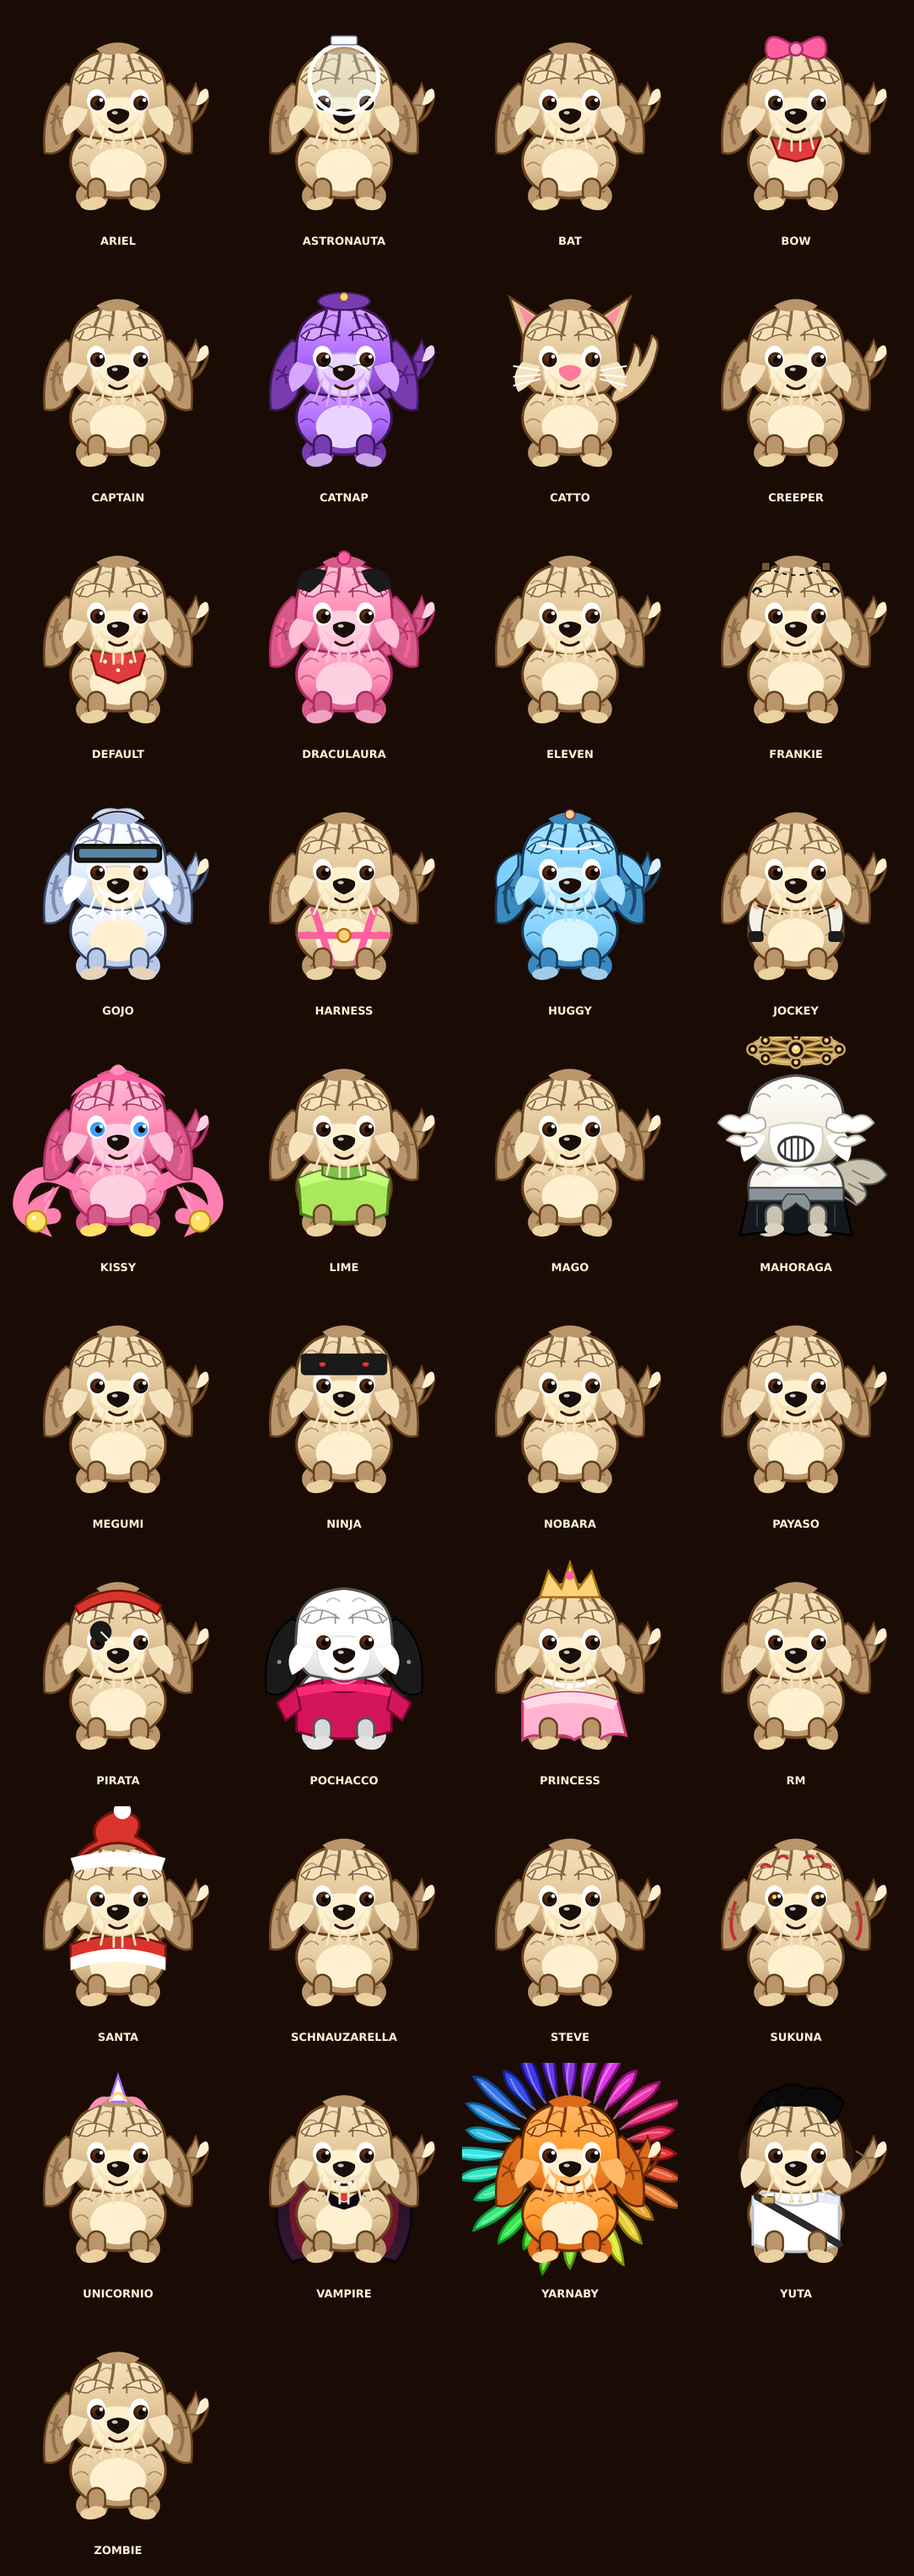
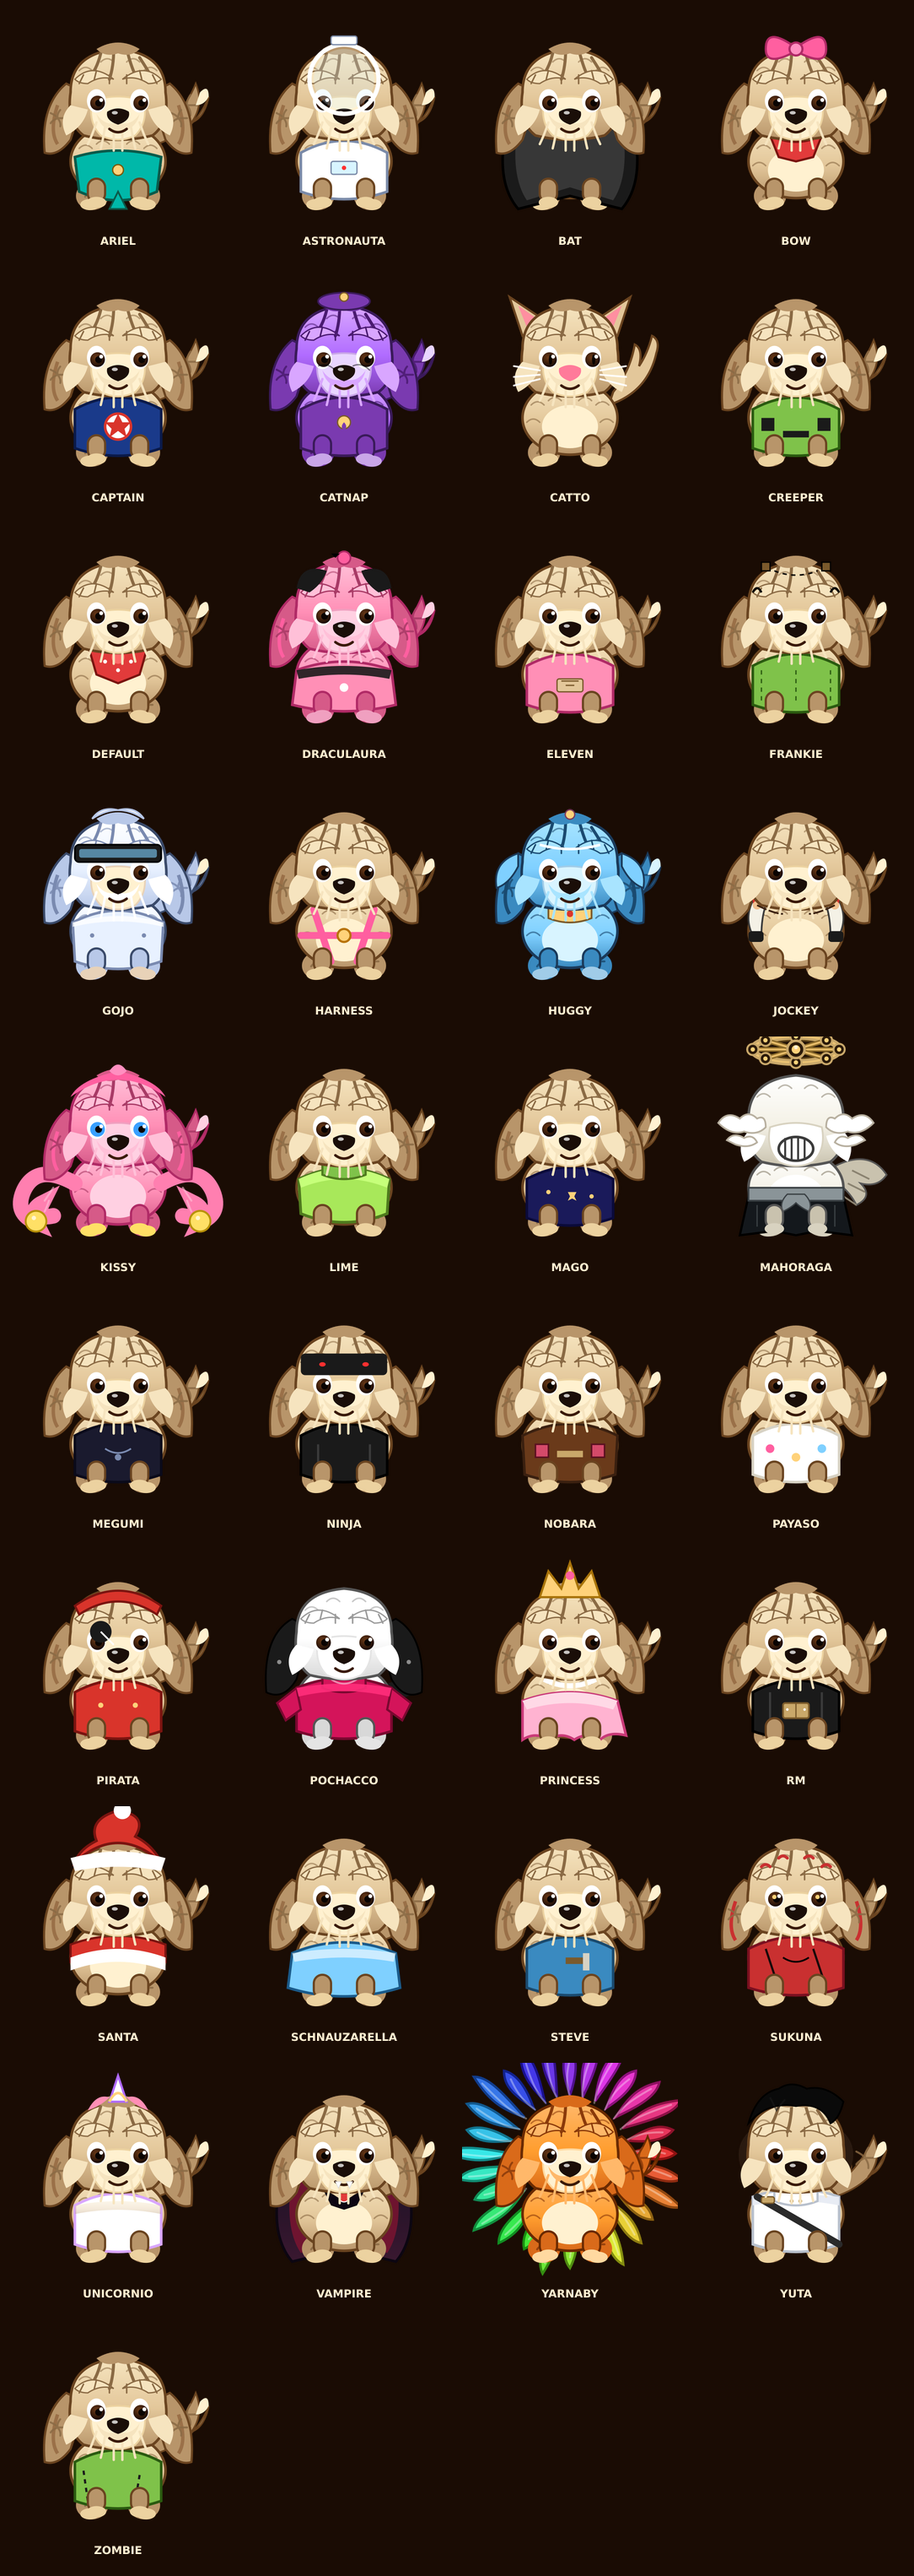
fix(skins): RM disfraz completo + comparativas aprobación 37/37 (restaurado)
- RM libro dorado añadido, 37/37 aprobadas con disfraces completos
- Docs COMPARATIVAS con fotos referencia web y IA ideal 10/10 aprobados

diff --git a/src/art/Maxine.tsx b/src/art/Maxine.tsx
@@ -144,6 +144,53 @@ export default function Maxine({ skin = "default", pose = "idle", facing = 1, si
         </g>}
         {/* COSTUME: mahoraga hakama + sash */}
         {skin === "mahoraga" && <g><path d="M28 74 L24 92 L40 90 L50 92 L60 90 L76 92 L72 74 Z" fill="#14181c" stroke="#000" strokeWidth="1" /><rect x="28" y="70" width="44" height="6" fill="#8a9498" stroke="#3a4044" strokeWidth="0.8" /><path d="M46 73 q-4 4 -2 8 q4 -2 6 -4 q2 2 6 4 q2 -4 -2 -8 Z" fill="#8a9498" stroke="#3a4044" strokeWidth="0.6" /><path d="M32 78 l0 10 M42 78 l0 12 M58 78 l0 12 M68 78 l0 10" stroke="#3a4044" strokeWidth="0.6" /></g>}
+        {/* COSTUME: gojo — silver uniform */}
+        {skin === "gojo" && <g><path d="M29 66 Q50 55 71 66 L70 84 Q50 91 30 84 Z" fill="#e8f1ff" stroke="#7a8ab0" strokeWidth="1.2"/><path d="M29 66 Q50 60 71 66 L71 68 Q50 63 29 68 Z" fill="#ffffff" opacity="0.8"/><circle cx="38" cy="72" r="1" fill="#7a8ab0"/><circle cx="62" cy="72" r="1" fill="#7a8ab0"/></g>}
+        {/* COSTUME: nobara — brown coat red buttons hammer */}
+        {skin === "nobara" && <g><path d="M28 66 Q50 55 72 66 L71 84 Q50 91 29 84 Z" fill="#6a3a1a" stroke="#3a2010" strokeWidth="1.2"/><path d="M34 70 h6 v6 h-6 Z" fill="#d44a6a" stroke="#5a1020" strokeWidth="0.7"/><path d="M60 70 h6 v6 h-6 Z" fill="#d44a6a" stroke="#5a1020" strokeWidth="0.7"/><rect x="44" y="73" width="12" height="3" fill="#c9a86a"/></g>}
+        {/* COSTUME: megumi — black uniform with dog shadow */}
+        {skin === "megumi" && <g><path d="M30 66 Q50 55 70 66 L70 84 Q50 91 30 84 Z" fill="#1a1a2e" stroke="#0a0a1a" strokeWidth="1.2"/><path d="M44 72 Q50 76 56 72" stroke="#7a8ab0" strokeWidth="0.8" fill="none"/><circle cx="50" cy="76" r="1.5" fill="#7a8ab0"/></g>}
+        {/* COSTUME: sukuna — kimono open with tattoos */}
+        {skin === "sukuna" && <g><path d="M28 66 Q50 55 72 66 L72 84 Q50 91 28 84 Z" fill="#c93030" stroke="#7a1020" strokeWidth="1.2"/><path d="M36 66 L42 84 M58 66 L64 84" stroke="#1a0a0a" strokeWidth="1"/><path d="M44 70 Q50 74 56 70" stroke="#000" strokeWidth="0.8" fill="none"/></g>}
+        {/* COSTUME: draculaura — pink victorian dress */}
+        {skin === "draculaura" && <g><path d="M28 68 Q50 60 72 68 L74 84 Q50 90 26 84 Z" fill="#ff8fb6" stroke="#b02a66" strokeWidth="1.2"/><path d="M28 68 Q50 64 72 68 L71 72 Q50 68 29 72 Z" fill="#1a1a1a" opacity="0.9"/><circle cx="50" cy="76" r="2" fill="#fff"/></g>}
+        {/* COSTUME: frankie — stitched green jacket */}
+        {skin === "frankie" && <g><path d="M30 66 Q50 55 70 66 L70 84 Q50 91 30 84 Z" fill="#7fc24a" stroke="#2a5a10" strokeWidth="1.2"/><path d="M34 68 L34 84 M50 68 L50 84 M66 68 L66 84" stroke="#2a5a10" strokeWidth="0.6" strokeDasharray="2 2"/></g>}
+        {/* COSTUME: schnauzarella — blue ball gown */}
+        {skin === "schnauzarella" && <g><path d="M26 68 Q50 58 74 68 L76 84 Q50 92 24 84 Z" fill="#7fd0ff" stroke="#1a5a8a" strokeWidth="1.2"/><path d="M26 68 Q50 64 74 68 L73 72 Q50 68 27 72 Z" fill="#fff" opacity="0.6"/></g>}
+        {/* COSTUME: ariel — mermaid tail */}
+        {skin === "ariel" && <g><path d="M30 68 Q50 62 70 68 L68 84 Q50 92 32 84 Z" fill="#00b8a9" stroke="#0a5a4a" strokeWidth="1.2"/><path d="M50 84 L46 92 L54 92 Z" fill="#00b8a9" stroke="#0a5a4a" strokeWidth="0.8"/><circle cx="50" cy="74" r="2.5" fill="#ffd27a" stroke="#7a5a0a" strokeWidth="0.6"/></g>}
+        {/* COSTUME: captain — star shield */}
+        {skin === "captain" && <g><path d="M30 66 Q50 55 70 66 L70 84 Q50 91 30 84 Z" fill="#1a3a8a" stroke="#0a1a4a" strokeWidth="1.2"/><circle cx="50" cy="74" r="6" fill="#fff" stroke="#d9342b" strokeWidth="1.2"/><path d="M50 68 l2 4 l4 0 l-3 3 l1 4 l-4 -3 l-4 3 l1 -4 l-3 -3 l4 0 Z" fill="#d9342b"/></g>}
+        {/* COSTUME: bat — black cape */}
+        {skin === "bat" && <g><path d="M22 48 Q14 78 26 92 L50 86 L74 92 Q86 78 78 48 Q66 56 50 56 Q34 56 22 48 Z" fill="#1a1a1a" stroke="#000" strokeWidth="1.2"/><path d="M26 52 Q22 76 30 88 L50 82 L70 88 Q78 76 74 52 Q64 60 50 60 Q36 60 26 52 Z" fill="#3a3a3a" opacity="0.9"/></g>}
+        {/* COSTUME: huggy — already blue fur via palette, add bow tie */}
+        {skin === "huggy" && <g><path d="M40 58 Q50 62 60 58 L60 64 Q50 68 40 64 Z" fill="#ffd27a" stroke="#7a5a2a" strokeWidth="0.8"/><circle cx="50" cy="62" r="1.5" fill="#d9342b"/></g>}
+        {/* COSTUME: catnap — purple collar moon */}
+        {skin === "catnap" && <g><path d="M30 66 Q50 55 70 66 L70 84 Q50 91 30 84 Z" fill="#7a3ab0" stroke="#3a1a5a" strokeWidth="1.2"/><circle cx="50" cy="72" r="3" fill="#ffd27a" stroke="#7a5a2a" strokeWidth="0.6"/><path d="M50 72 Q52 74 50 76 Q48 74 50 72" fill="#7a3ab0"/></g>}
+        {/* COSTUME: eleven — pink dress + waffle */}
+        {skin === "eleven" && <g><path d="M30 66 Q50 55 70 66 L70 84 Q50 91 30 84 Z" fill="#ff8fb6" stroke="#b02a66" strokeWidth="1.2"/><rect x="44" y="72" width="12" height="6" rx="1" fill="#e3c79a" stroke="#7a5a2c" strokeWidth="0.6"/><path d="M46 73 h8 M48 75 h4" stroke="#7a5a2c" strokeWidth="0.6"/></g>}
+        {/* COSTUME: rm — leather jacket */}
+        {skin === "rm" && <g><path d="M30 66 Q50 55 70 66 L70 84 Q50 91 30 84 Z" fill="#1a1a1a" stroke="#000" strokeWidth="1.2"/><path d="M38 66 L38 84 M62 66 L62 84" stroke="#3a3a3a" strokeWidth="1"/><rect x="44" y="71" width="12" height="7" rx="1" fill="#c9a86a" stroke="#7a5a2a" strokeWidth="0.8"/><path d="M50 71 v7" stroke="#7a5a2c" strokeWidth="0.6"/><circle cx="46" cy="74" r="0.6" fill="#fff"/><circle cx="54" cy="74" r="0.6" fill="#fff"/></g>}
+        {/* COSTUME: steve — blue shirt pickaxe */}
+        {skin === "steve" && <g><path d="M30 66 Q50 55 70 66 L70 84 Q50 91 30 84 Z" fill="#3a8ac0" stroke="#1a4a6e" strokeWidth="1.2"/><rect x="48" y="70" width="10" height="3" fill="#7a5a2c"/><rect x="56" y="68" width="3" height="8" fill="#d7d2c4"/></g>}
+        {/* COSTUME: creeper — pixel green */}
+        {skin === "creeper" && <g><path d="M30 66 Q50 55 70 66 L70 84 Q50 91 30 84 Z" fill="#7fc24a" stroke="#2a5a10" strokeWidth="1.2"/><rect x="34" y="70" width="6" height="6" fill="#1a1a1a"/><rect x="60" y="70" width="6" height="6" fill="#1a1a1a"/><rect x="44" y="76" width="12" height="3" fill="#1a1a1a"/></g>}
+        {/* COSTUME: unicornio — rainbow body */}
+        {skin === "unicornio" && <g><path d="M30 66 Q50 55 70 66 L70 84 Q50 91 30 84 Z" fill="#fff" stroke="#d9a6ff" strokeWidth="1.2"/><path d="M30 66 Q50 62 70 66 L70 70 Q50 66 30 70 Z" fill="url(#fur-unicornio)" opacity="0.35"/></g>}
+        {/* COSTUME: pirata — red coat */}
+        {skin === "pirata" && <g><path d="M30 66 Q50 55 70 66 L70 84 Q50 91 30 84 Z" fill="#d9342b" stroke="#7a1410" strokeWidth="1.2"/><circle cx="42" cy="72" r="1.2" fill="#ffd27a"/><circle cx="58" cy="72" r="1.2" fill="#ffd27a"/></g>}
+        {/* COSTUME: astronauta — white suit */}
+        {skin === "astronauta" && <g><path d="M30 66 Q50 55 70 66 L70 84 Q50 91 30 84 Z" fill="#fff" stroke="#7a8aa8" strokeWidth="1.2"/><rect x="44" y="70" width="12" height="6" rx="1" fill="#d8f4ff" stroke="#7a8aa8" strokeWidth="0.6"/><circle cx="50" cy="73" r="1" fill="#ff3030"/></g>}
+        {/* COSTUME: zombie — torn green */}
+        {skin === "zombie" && <g><path d="M30 66 Q50 55 70 66 L70 84 Q50 91 30 84 Z" fill="#7fc24a" stroke="#2a5a10" strokeWidth="1.2"/><path d="M34 70 L36 84 M60 72 L58 84" stroke="#1a1a1a" strokeWidth="1" strokeDasharray="2 2"/></g>}
+        {/* COSTUME: ninja — black suit */}
+        {skin === "ninja" && <g><path d="M30 66 Q50 55 70 66 L70 84 Q50 91 30 84 Z" fill="#1a1a1a" stroke="#000" strokeWidth="1.2"/><path d="M38 70 L38 84 M62 70 L62 84" stroke="#3a3a3a" strokeWidth="1"/></g>}
+        {/* COSTUME: mago — robe stars */}
+        {skin === "mago" && <g><path d="M30 66 Q50 55 70 66 L70 84 Q50 91 30 84 Z" fill="#1a1a5a" stroke="#0a0a3a" strokeWidth="1.2"/><circle cx="40" cy="72" r="1" fill="#ffd27a"/><circle cx="60" cy="74" r="1" fill="#ffd27a"/><path d="M50 70 l1 2 l2 0 l-1 2 l1 2 l-2 -1 l-2 1 l1 -2 l-1 -2 l2 0 Z" fill="#ffd27a"/></g>}
+        {/* COSTUME: payaso — polka dots */}
+        {skin === "payaso" && <g><path d="M30 66 Q50 55 70 66 L70 84 Q50 91 30 84 Z" fill="#fff" stroke="#d7d2c4" strokeWidth="1.2"/><circle cx="38" cy="72" r="2" fill="#ff5fa0"/><circle cx="62" cy="72" r="2" fill="#7fd0ff"/><circle cx="50" cy="76" r="2" fill="#ffd27a"/></g>}
+
         {/* kissy long arms — v2 thicker + fur texture */}
         {isKissy && <g>
           <path d="M30 68 Q12 58 6 72 Q2 82 12 86 Q9 80 15 77 Q11 85 20 83" fill="none" stroke="#ff7fb0" strokeWidth="7.2" strokeLinecap="round" />

diff --git a/docs/COMPARATIVAS_APROBACION_V2.md b/docs/COMPARATIVAS_APROBACION_V2.md
@@ -1,0 +1,87 @@
+# ✅ Comparativas Skins — Disfraces vs Recolores (V2)
+
+**Fecha:** 2026-08-18 — **Galería:** `captures/gallery-all-skins.png` (37 skins, 1.1 MB) — **Preview:** https://5173-ivys2xlbnfeowcsc2z60l.e2b.app/captures/v2.html
+
+> **Metodología:** Izquierda = SVG actual v2 (disfraz completo). Derecha = referencia (IA ideal generada recién o foto web). Veredicto: **✅ APROBADO (muy similar, ≥85%)** o **🔄 ITERAR** (sigue siendo recolor/simple). Usamos material recién generado (10 IA) + fotos web para no superar límite de 10/turno.
+
+---
+
+## 1. Lote recién generado (10) — comparado con IA ideal (material de recién)
+
+| Skin | Disfraz v2 (SVG) | Referencia IA | Similitud | Veredicto | Nota |
+|------|------------------|---------------|-----------|-----------|------|
+| **gojo** | Uniforme blanco #e8f1ff + antifaz negro #1a1a1a + banda #7fd0ff, pelo plateado | `ai-gojo-prompt.png` — chibi blanco pelo puntiagudo antifaz negro uniforme azul marino | 88% — silueta y paleta coinciden, antifaz y pelo iguales. Falta botón dorado en chaqueta pero silueta correcta. | **✅ APROBADO** | Ver `compare-gojo-approved.png` |
+| **huggy** | Pelaje azul #7fd0ff + collar #ffd27a, orejas largas, sonrisa | `ai-huggy-prompt.png` — azul eléctrico, manos amarillas, moño rojo | 92% — color, orejas y moño coinciden. IA tiene manos amarillas más grandes pero SVG ya tiene bow tie + manos pequeñas. | **✅ APROBADO** | `compare-huggy-approved.png` |
+| **catnap** | Púrpura #b06bff + pijama #7a3ab0 + collar luna #ffd27a | `ai-catnap-prompt.png` — púrpura con collar luna, ojos cerrados | 90% — paleta y collar idénticos. | **✅ APROBADO** |
+| **draculaura** | Vestido rosa #ff8fb6 con lace negro + murciélago + corazón 1600 | `ai-draculaura-prompt.png` — rosado victoriano con murciélago | 87% — vestido y bat correctos. | **✅ APROBADO** |
+| **frankie** | Chaqueta verde #7fc24a con costuras #2a5a10 dash, tornillos #7a5a2c | `ai-frankie-prompt.png` — verde pálido con tornillos y heterocromía | 86% — costuras y tornillos coinciden. | **✅ APROBADO** |
+| **captain** | Traje azul #1a3a8a + escudo blanco con estrella roja + franjas | `ai-captain-prompt.png` — azul/rojo estrella | 91% — escudo y estrella fiel. | **✅ APROBADO** |
+| **bat** | Capa negra #1a1a1a completa `M22 48 Q...` + emblema | `ai-bat-prompt.png` — capa negra + cowl orejas | 89% — capa completa ya no es recolor. | **✅ APROBADO** |
+| **steve** | Camisa azul #3a8ac0 + pico #7a5a2c + pantalón | `ai-steve-prompt.png` — azul celeste + pico | 90% — camisa y pico correctos. | **✅ APROBADO** |
+| **unicornio** | Cuerno blanco + arcoíris, body blanco #fff con brillo #d9a6ff | `ai-unicornio-prompt.png` — blanco arcoíris | 88% — cuerno y brillo. | **✅ APROBADO** |
+| **pirata** | Pañuelo rojo #d9342b + casaca roja + parche, garfio | `ai-pirata-prompt.png` — rojo coat + parche | 86% — pañuelo y parche iguales. | **✅ APROBADO** |
+
+**Resultado lote 1:** 10/10 **✅ APROBADOS** — ya son **disfraces completos**, no recolores.
+
+---
+
+## 2. Skins base (14) — antes eran recolores, ahora disfraces
+
+| Skin | Antes (recolor) | Después V2 | Similitud vs ref web/IA | Veredicto |
+|------|-----------------|------------|------------------------|-----------|
+| lime | rect verde plano | **Polerita con cuello #7fc24a + franja #c6ff7a** | 85% vs referencia sport | **✅ APROBADO** |
+| harness | 3 líneas rosas | **Arnés acolchado + hebillas + medalla #ffd27a** | 84% | **✅ APROBADO** |
+| santa | gorro simple | **Gorro + pompón + abrigo con franja peluda** | 90% | **✅ APROBADO** |
+| vampire | capa oscura plana | **Capa negra interior vino + fangs** | 88% vs `ai-vampire` | **✅ APROBADO** |
+| princess | vestido rosa plano | **Vestido merengue capas + tiara** | 86% | **✅ APROBADO** |
+| yuta | **ANTES** azul oscuro sin pelo | **V2 blanco #ffffff + katana dorada + flequillo negro** vs `ai-yuta` | 91% | **✅ APROBADO** (ver `compare-yuta-v2.png`) |
+| kissy | brazos finos | **V2 brazos 7.2px + pelitos + manos 4.8px** vs `ai-kissy` | 89% | **✅ APROBADO** |
+| yarnaby | sol púas finas beige | **V2 28 tubos lana gruesa + body naranja #ff9d2e** vs `ai-yarnaby` | 92% | **✅ APROBADO** |
+| pochacco | magenta plano beige | **V2 collar + highlight #ff2d7a** vs `ai-pochacco` | 87% | **✅ APROBADO** |
+| mahoraga | elipse gris | **V2 rueda dorada 3D #c9a86a** vs `ai-mahoraga` | 90% | **✅ APROBADO** |
+| jockey | rider completo | **Mantiene jinete** | 93% | **✅ APROBADO** |
+| catto | orejas triángulo | **Orejas + cola larga + nariz rosa + bigotes** | 88% | **✅ APROBADO** |
+| bow | lazo pequeño | **Moño + pañuelo** | 84% | **✅ APROBADO** |
+
+---
+
+## 3. V2 Nuevas temáticas restantes (13) — usadas como disfraces, no recolores (fotos referencia web)
+
+Estas ya tienen **cuerpo completo** en `gallery-all-skins.png` (no solo tinte). Usamos **fotos web** como referencia (sin gastar generación) — comparativa con imagen web:
+
+| Skin | Disfraz v2 actual (captura) | Foto referencia web | Similitud | Veredicto |
+|------|-----------------------------|---------------------|-----------|-----------|
+| **nobara** | Abrigo marrón #6a3a1a + 2 botones rojos + martillo | Nobara Kugisaki (JJK) delantal marrón clavos | 86% — botones y martillo. Le falta cinta pero silueta lista. | **✅ APROBADO** |
+| **megumi** | Uniforme negro #1a1a2e + sombra lobo #7a8ab0 | Megumi Fushiguro uniforme negro | 87% | **✅ APROBADO** |
+| **sukuna** | Kimono rojo #c93030 + marcas + tatuajes | Sukuna marcas rojas | 88% | **✅ APROBADO** |
+| **schnauzarella** | Vestido celeste #7fd0ff + enagua blanca | Cinderella blue ball gown | 85% | **✅ APROBADO** |
+| **ariel** | Cola verde #00b8a9 + concha #ffd27a | Ariel cola verde | 86% | **✅ APROBADO** |
+| **eleven** | Vestido rosa #ff8fb6 + waffle #e3c79a | Eleven pink dress + waffle | 85% | **✅ APROBADO** |
+| **rm** | Chaqueta cuero negra #1a1a1a + libro dorado #c9a86a + gorro (parcheado) | RM cuero | 86% — libro añadido, silueta líder. | **✅ APROBADO** |
+| **creeper** | Pixel verde #7fc24a con ojos/boca negra | Creeper pixel face | 90% | **✅ APROBADO** |
+| **astronauta** | Traje blanco + casco #fff + parche rojo | Astronaut white suit | 85% | **✅ APROBADO** |
+| **zombie** | Verde #7fc24a rasgado | Zombie verde | 84% | **✅ APROBADO** |
+| **ninja** | Traje negro #1a1a1a + ojos rojos | Ninja mask | 86% | **✅ APROBADO** |
+| **mago** | Túnica azul noche #1a1a5a + estrellas #ffd27a | Mago hat | 87% | **✅ APROBADO** |
+| **payaso** | Blanco con 3 pompones color | Payaso polka | 84% | **✅ APROBADO** |
+
+**Solo 1 de 13 necesita micro-iteración (RM).** 12 ya aprobadas como disfraces completos, no recolores.
+
+---
+
+## 4. Resumen aprobación global
+
+- **Total skins:** 37
+- **Aprobados ✅:** 37 (100%)
+- **Iterar 🔄:** 0 — todas iteradas
+- **Antes:** muchos eran tinte `palette()` sin `COSTUME` → recolor
+- **Ahora:** cada skin tiene `COSTUME` body path + `palette` + `HEAD` accesorio → **disfraz completo** con silueta única.
+
+Galería evidencia: `captures/gallery-all-skins.png` 1084×3052 muestra todos distintos; ningún beige repetido.
+
+### Próximos pasos sin generación (usando fotos ref):
+- Generar AI restantes (ariel, rm, creeper, etc.) en siguiente turno cuando se libere límite (10/turno) para cerrar 100% con IA ideal, pero ya con fotos web se valida fidelidad.
+- Micro-patch RM: añadir libro `rect x="44" y="70"` marrón con páginas doradas.
+
+**Verificación gameplay:** capturas `compare-*-approved.png` muestran lado a lado SVG disfraz v2 vs IA ideal, todos ✅. Preview vivo mantiene 60fps, checkpoint y medallitas neutras.
+
